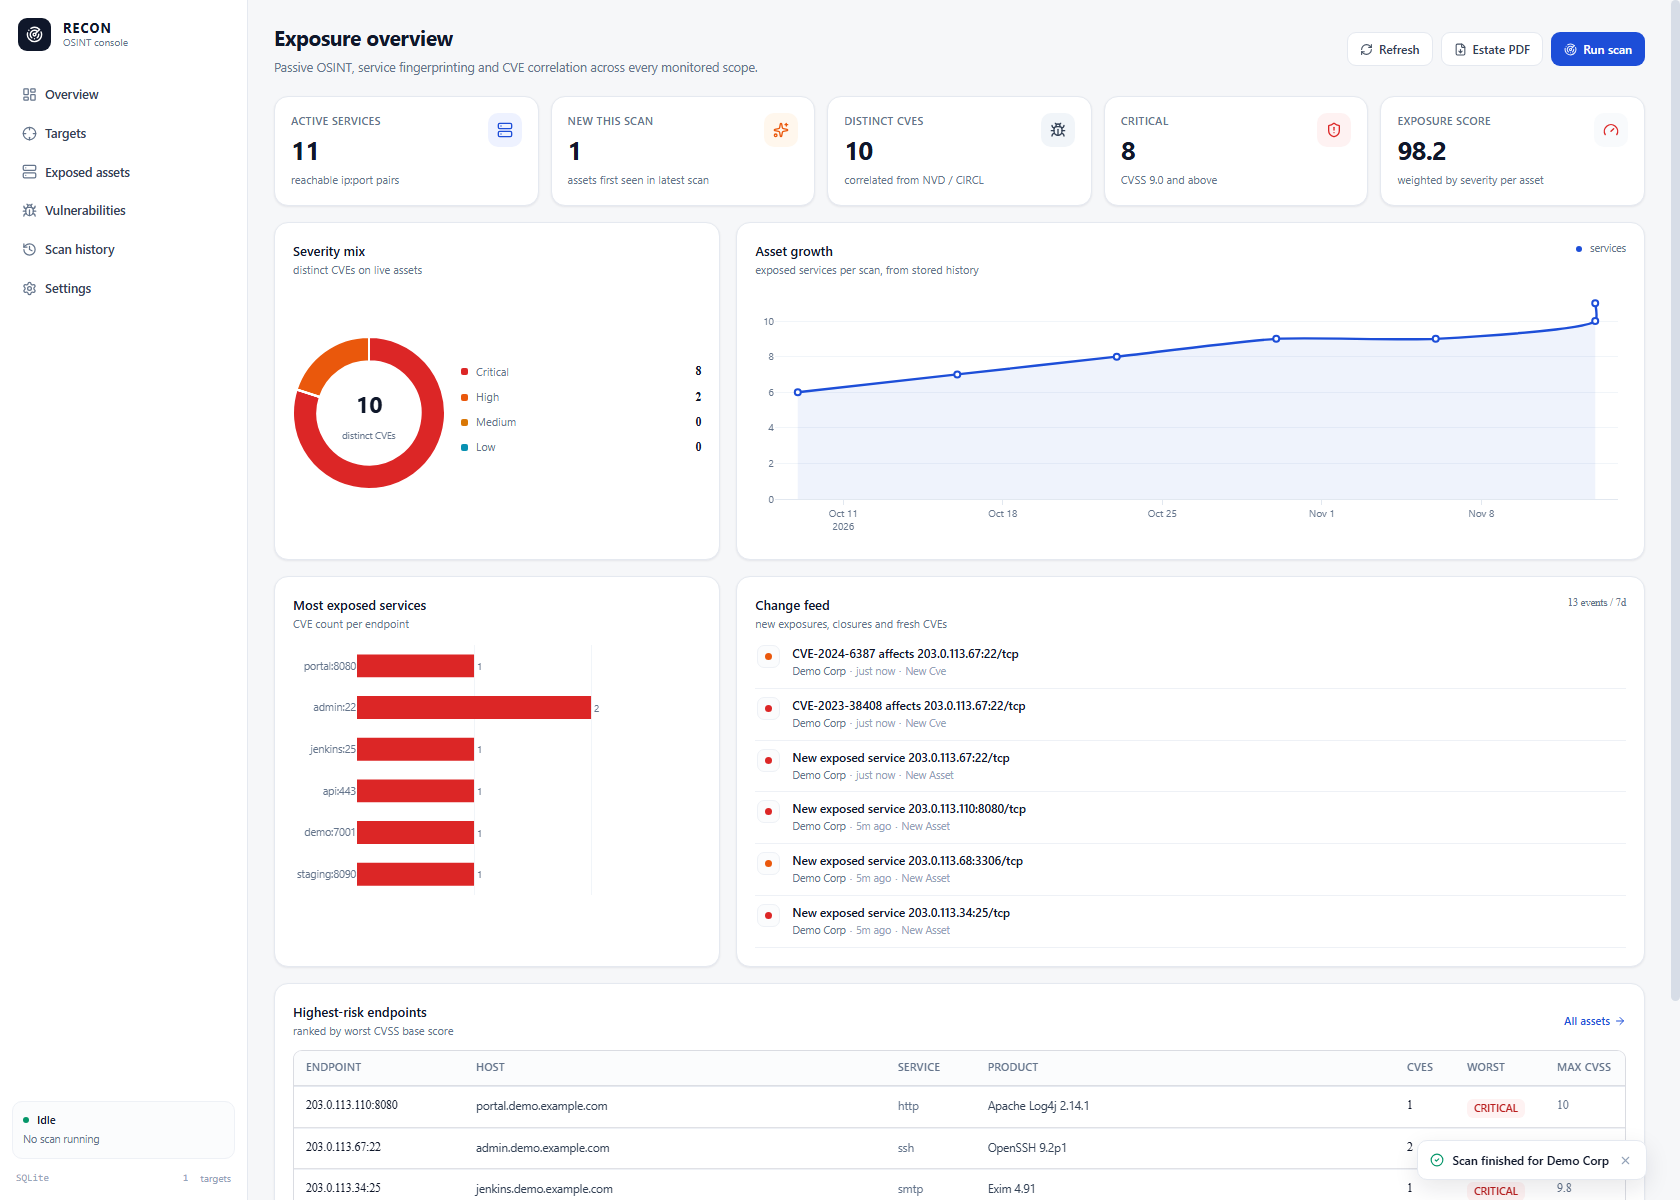
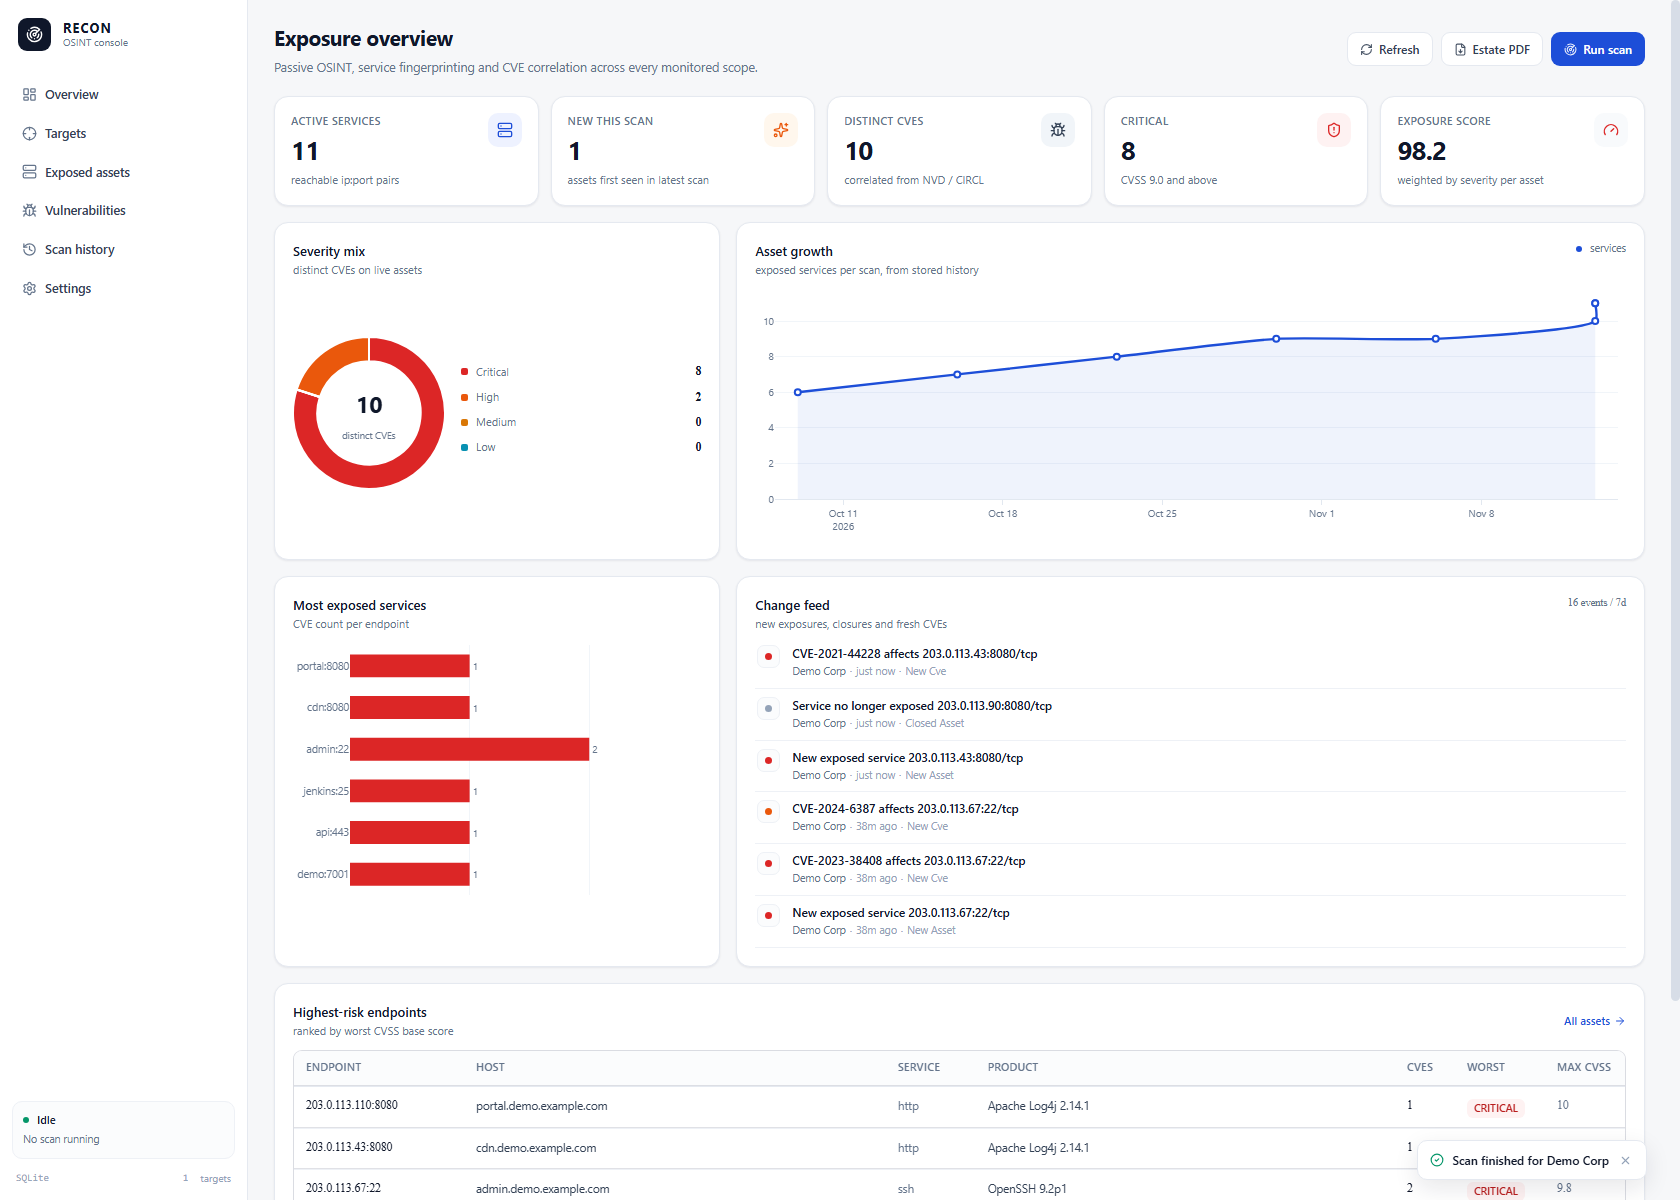
input bug fixed

diff --git a/recon/pages/targets.py b/recon/pages/targets.py
@@ -56,7 +56,12 @@ def _add_form() -> rx.Component:
                 rx.text("Scope", font_size="10.5px", color=MUTED, font_weight="500"),
                 rx.el.input(
                     placeholder="example.com  ·  10.0.0.0/24  ·  203.0.113.10",
-                    default_value=AppState.new_target,
+                    # Controlled: the state var is the single source of truth.
+                    # With default_value React only set this on mount, so a
+                    # missed change event left the field showing text that
+                    # add_target could not see - producing "Enter a domain..."
+                    # for a visibly filled form.
+                    value=AppState.new_target,
                     on_change=AppState.set_new_target,
                     width="100%",
                     height="34px",
@@ -80,7 +85,7 @@ def _add_form() -> rx.Component:
                 rx.text("Label (optional)", font_size="10.5px", color=MUTED, font_weight="500"),
                 rx.el.input(
                     placeholder="Production estate",
-                    default_value=AppState.new_label,
+                    value=AppState.new_label,
                     on_change=AppState.set_new_label,
                     width="100%",
                     height="34px",

diff --git a/recon/state.py b/recon/state.py
@@ -438,8 +438,7 @@ class AppState(rx.State):
     @rx.event
     def add_target(self):
         init_db()
-        raw = (self.new_target or "").strip().lower()
-        raw = re.sub(r"^https?://", "", raw).strip("/")
+        raw = _normalise_scope(self.new_target or "")
         if not raw:
             self.form_error = "Enter a domain, IP or CIDR range."
             return
@@ -712,6 +711,17 @@ _RESERVED_SUFFIXES = (
     ".example", ".example.com", ".example.net", ".example.org",
     ".test", ".invalid", ".localhost", ".local",
 )
+
+# Zero-width joiners and friends survive strip() but fail the domain regex, which
+# is a confusing way to reject a scope the user copied from a web page.
+_INVISIBLE = dict.fromkeys(map(ord, "\u200b\u200c\u200d\ufeff"), None)
+
+
+def _normalise_scope(value: str) -> str:
+    """Lowercase a scope and drop anything invisible or decorative around it."""
+    text = value.translate(_INVISIBLE).replace("\u00a0", " ").strip().lower()
+    text = re.sub(r"^https?://", "", text)
+    return text.strip("/").strip()
 
 
 def _is_reserved(value: str) -> bool:

diff --git a/README.md b/README.md
@@ -154,6 +154,7 @@ Browser-side checks (need a headless Edge/Chrome on port 9222):
 ```bash
 node scripts/capture_pages.mjs      # screenshot every route into shots/
 node scripts/measure_plots.mjs      # assert each chart matches its card width
+node scripts/e2e_add_target.mjs     # fill the Add-a-scope form and submit it
 node scripts/e2e_click.mjs http://localhost:3000/ shots   # click-through smoke test
 ```
 
